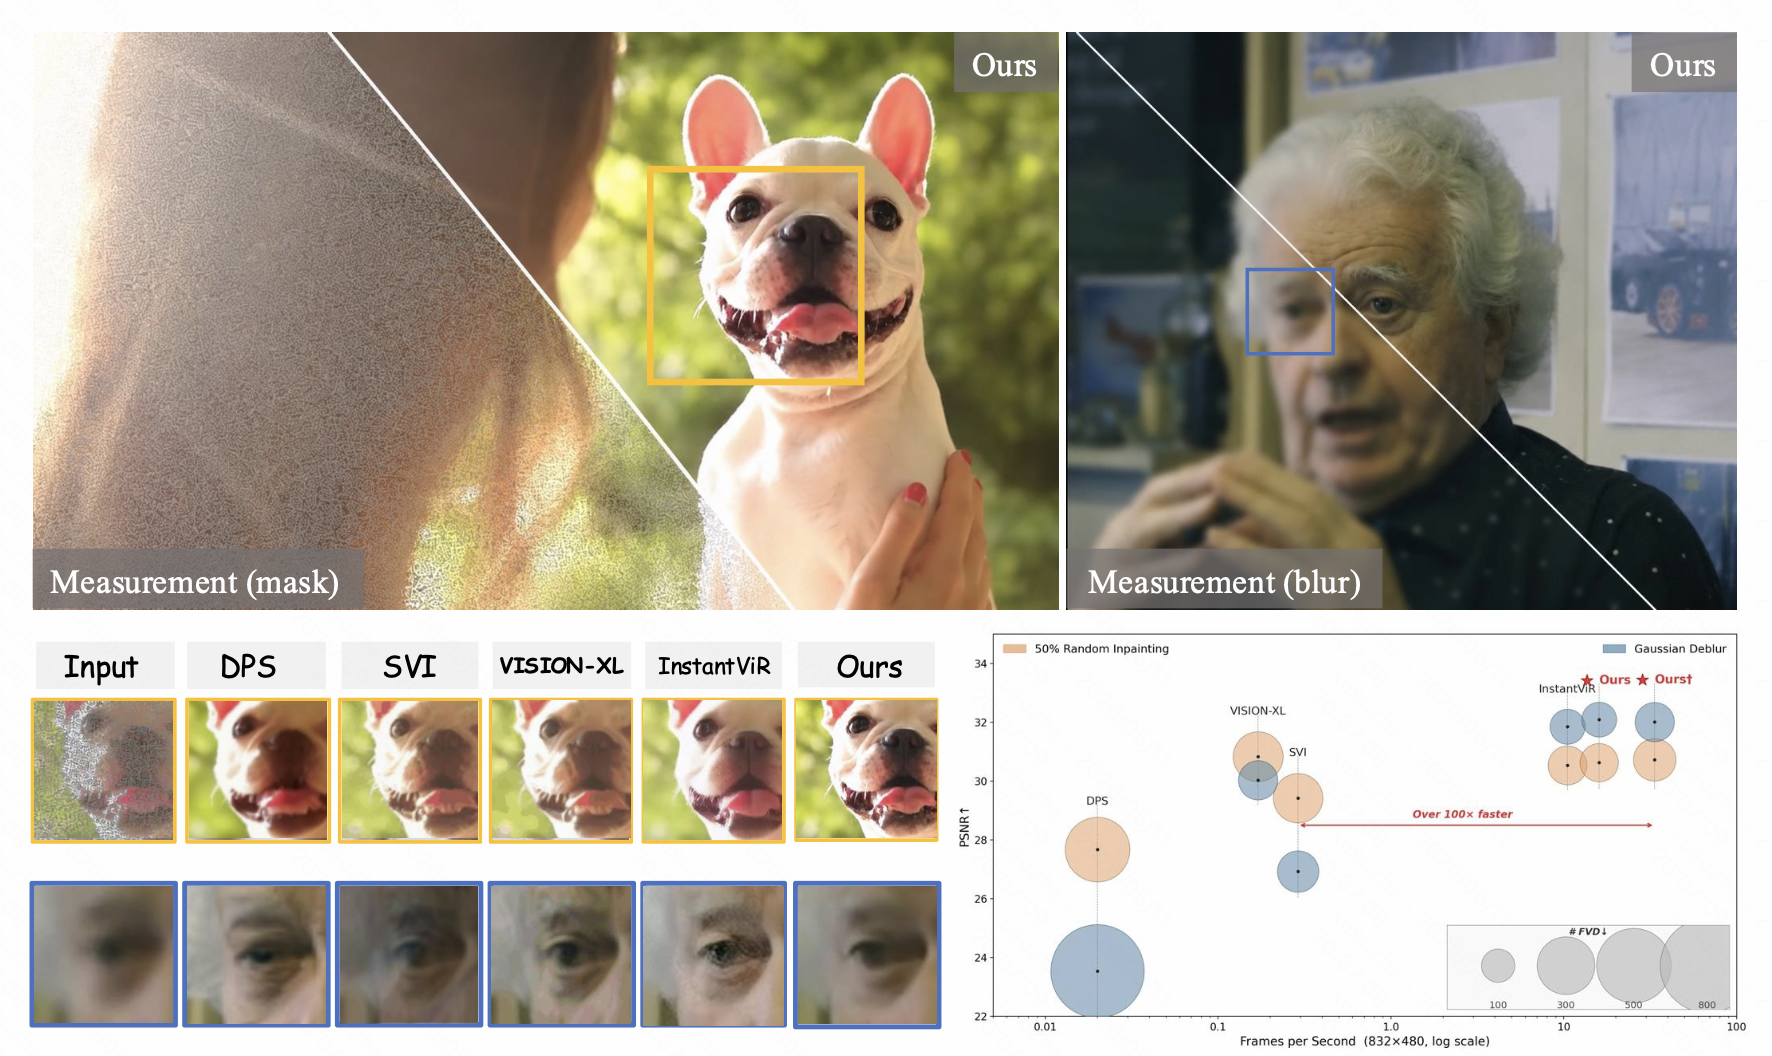
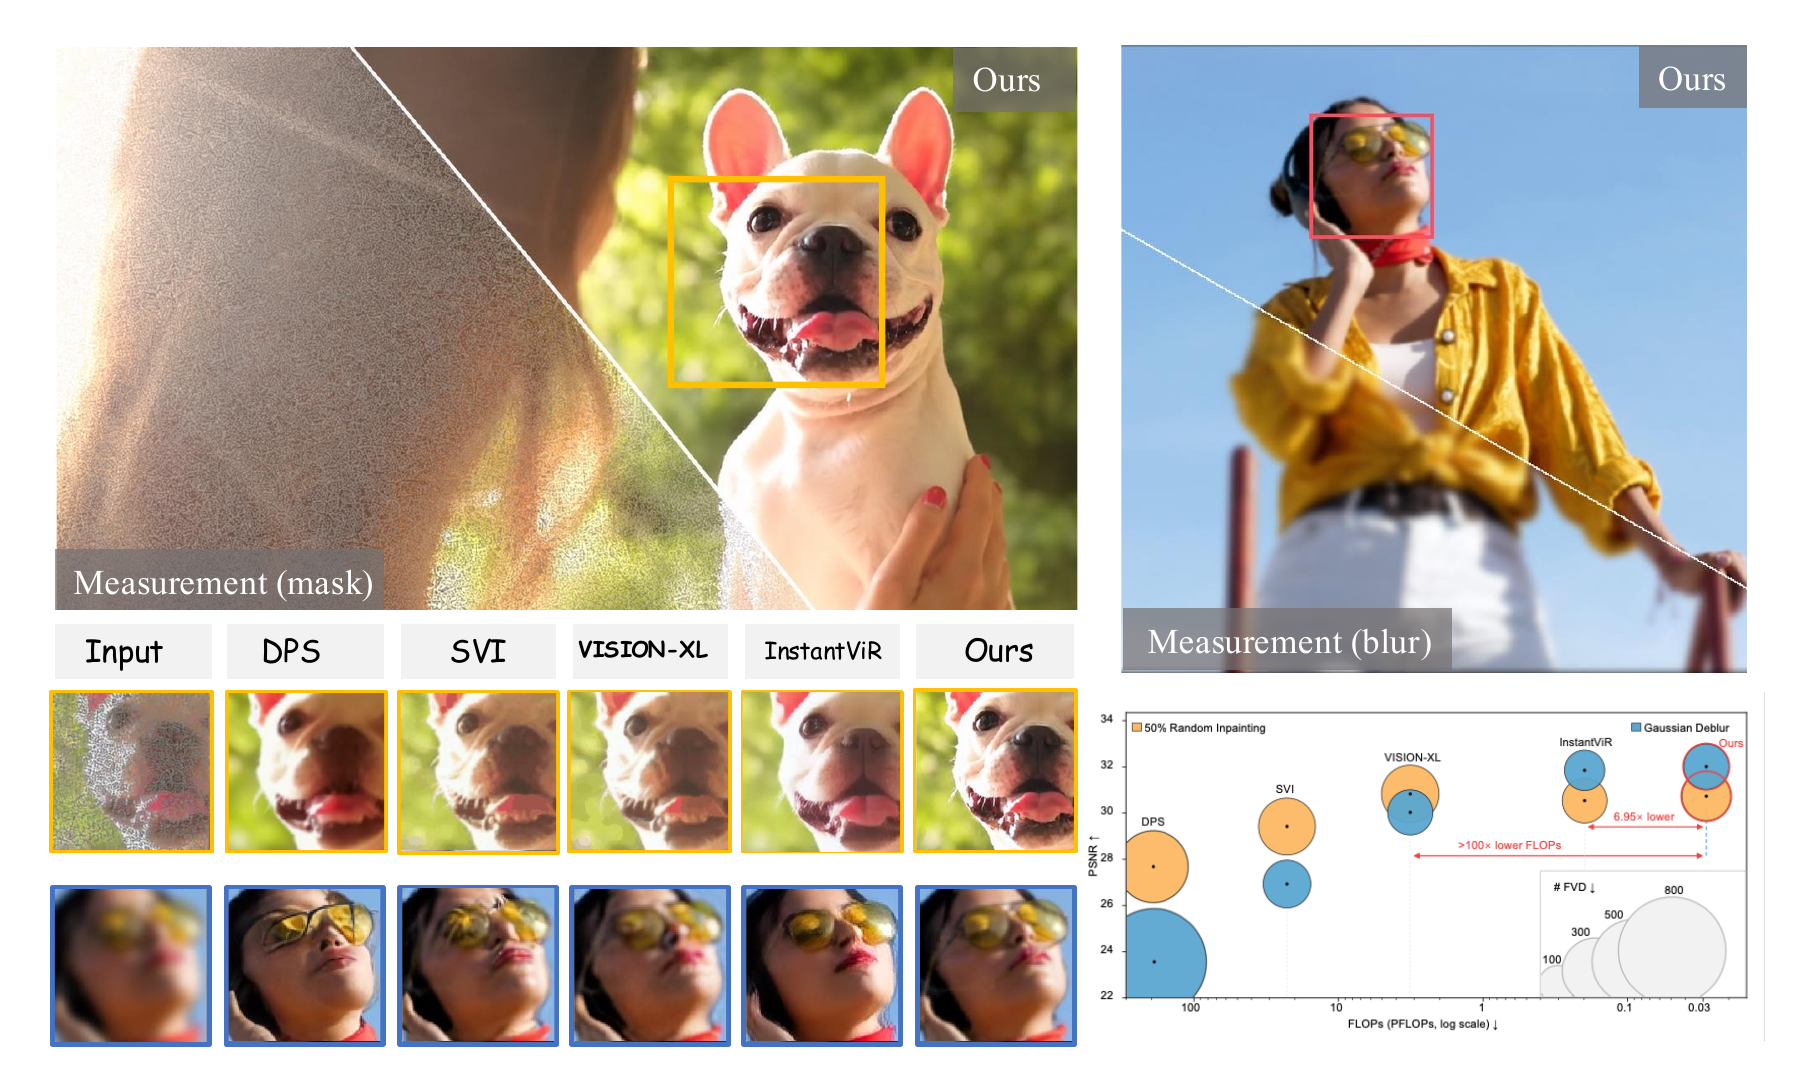
Update InstantViR++ teaser

diff --git a/index.html b/index.html
@@ -132,7 +132,7 @@
             <tr>
               <td style="padding:16px;width:25%;vertical-align:top">
                 <div class="static-card">
-                  <img src="pp-teaser.png" alt="InstantViR++ research overview" loading="lazy">
+                  <a href="pp-teaser.png?v=20260924" target="_blank" rel="noopener" title="View full-size teaser"><img src="pp-teaser.png?v=20260924" alt="InstantViR++ restoration comparisons and quality-compute trade-off" loading="lazy"></a>
                 </div>
               </td>
               <td style="padding:8px;width:75%;vertical-align:top">
